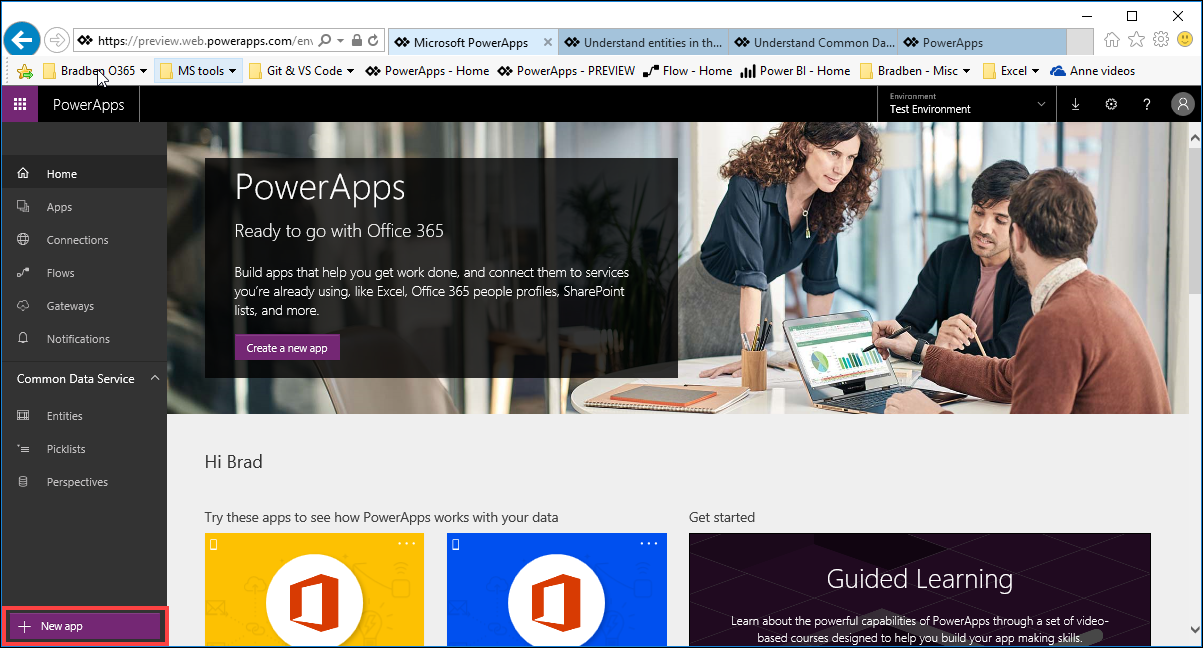
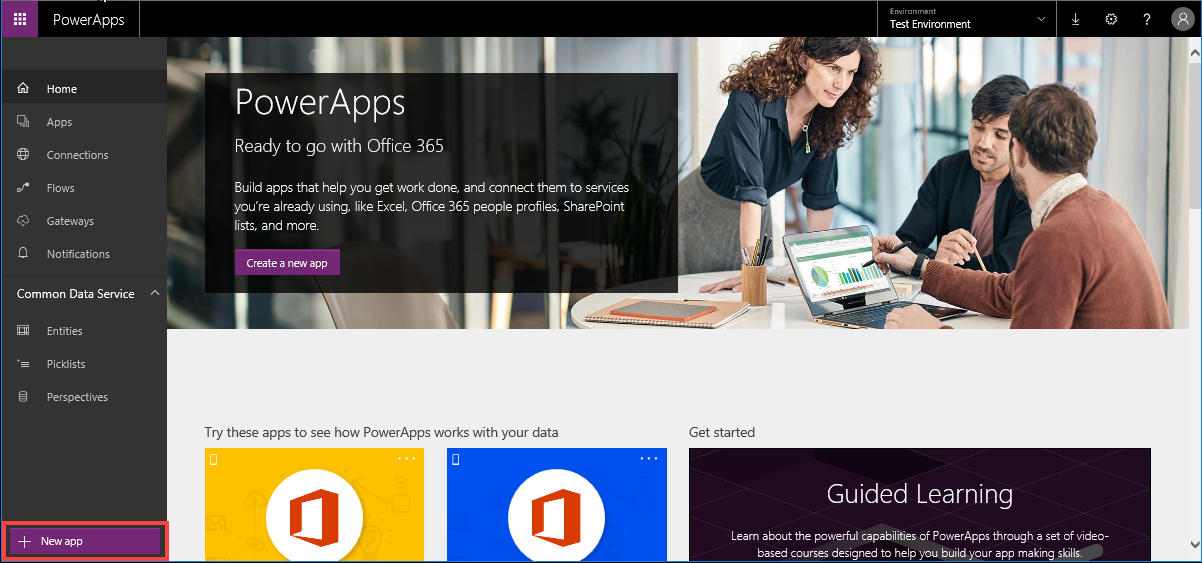
new file and graphics for CDS advanced apps topic, plus a cleanup fix for create-app graphic

diff --git a/articles/guided-learning/learning-common-data-service-advanced-apps.md b/articles/guided-learning/learning-common-data-service-advanced-apps.md
@@ -1,0 +1,102 @@
+<properties
+   pageTitle="The Common Data Service: Advance Apps | Microsoft PowerApps"
+   description="Building Advanced Applications with the Common Data Service"
+   services=""
+   suite="powerapps"
+   documentationCenter="na"
+   authors="v-brbene"
+   manager="anneta"
+   editor=""
+   tags=""
+   featuredVideoId="os33pHQ9jSU"
+   courseDuration="7m"/>
+
+<tags
+   ms.service="powerapps"
+   ms.devlang="na"
+   ms.topic="get-started-article"
+   ms.tgt_pltfrm="na"
+   ms.workload="na"
+   ms.date="6/20/2017"
+   ms.author="v-brbene"/>
+
+# Building advanced applications with the Common Data Service
+
+In this video, we’re going to talk about the different ways that you can build your apps with the Common Data Service. One of the great things about the Common Data Service is that we have application creation experiences for different skill levels. We’ll look at some of these experiences in this session. 
+
+Let’s take a quick tour of some of these options.
+
+- First, you can build your apps with PowerApps. Most of the steps in this process are automated. To create your application, you select the desired layout, choose the Common Data Service data source, find the entity you want to use, and then let PowerApps automatically build your app.
+- Next, you can build what we call a **powered-up** PowerApp. In this case, you can hook an Azure function into your app via custom APIs. The Azure function can have custom logic and complex queries that use the Common Data Service C# SDK.  To use this method, first register the app with Azure AD, and then build your Azure function. 
+- A third way is to use the Common Data Service C# SDK in a middle tier, deploy that middle-tier, and then build a Rich Client Application on top of that. 
+- And finally, you can use the Common Data Service C# SDK directly in your web apps or SaaS applications. 
+
+Let’s look at two of these options, starting with the PowerApps experience. 
+
+## Create an app with PowerApps
+
+On the **PowerApps page**, click **New app**.
+
+![Create a new app](./media/learning-common-data-service-advanced-apps/powerapps-new-app.png)
+
+In the **Blank app** template, click **Tablet layout**. 
+
+![Tablet layout](./media/learning-common-data-service-advanced-apps/tablet-layout.png)
+
+In the left navigation bar, click or tap an icon in the upper-right corner to switch to the thumbnail view. 
+
+![Toggle the views](./media/learning-common-data-service-advanced-apps/toggle-view.png)
+
+
+Click **Add Data Source**, click **Common Data Services**, select **Flooring Estimates**, and click **Connect**.
+
+![Connect to CDS](./media/learning-common-data-service-advanced-apps/add-data-source.png)
+
+Click **Insert**, click **Forms**, and then select **Entity form**.
+
+![Add entity form](./media/learning-common-data-service-advanced-apps/insert-entity-form.png)
+
+Expand the data source list and select the Common Data Service that you connected to above. 
+
+![Select data source](./media/learning-common-data-service-advanced-apps/select-data-source.png)
+
+Next, we’ll create a second screen to view the details of each item. 
+
+Click **New screen**, and click **Blank**. Add an entity form to this new screen and bind it to the Common Data Service using the same steps as above. 
+
+![Add new screen](./media/learning-common-data-service-advanced-apps/new-blank-screen.png)
+
+Click **Advanced**, and search for **pattern**. In the **Pattern** field, enter **FormPattern.Details** as the value. 
+
+![Configure pattern value](./media/learning-common-data-service-advanced-apps/pattern-value.png)
+
+Click on the first screen, click on the entity form, and then click **Options**. Under **PrimaryID**, select **Screen2** as the value for **Navigate**. This will set the **PrimaryID** column as a clickable link that will take you to the second screen. 
+
+![Configure navigation](./media/learning-common-data-service-advanced-apps/options-screen.png)
+
+
+Click on the second screen, click the entity form, and select **Advanced**. Search for **item**, and in the **Item** field, add **NavigationContext** as the value.  This tells the form to load the data from the item that was previously clicked on the first screen. 
+
+![Load form](./media/learning-common-data-service-advanced-apps/navigation-setting.png)
+
+Remaining on the second screen, click **Insert**, and then click **Button**. Drag the button to an empty space on the screen, and in the button's **OnSelect** field, enter **Navigate(Screen1, ScreenTransition.Fade)**. 
+
+![Navigation button](./media/learning-common-data-service-advanced-apps/navigation-button.png)
+
+Click the play button and test the app. Although this is a simple app, it shows how quickly you can create a tablet view that shows all the information inside of the Flooring Estimates entity, provide a deeper look into the details, and navigate back and forth. 
+
+## Create an app with the Common Data Service C# SDK
+
+Pro developers can use the Common Data Service C# SDK to either increase the complexity of logic that is used in a PowerApp, or for building Rich Clients or SaaS and web applications. 
+
+Apps that are using the SDK need to be registered with Azure AD, so they can make requests and use the Common Data Service. We won’t build an entire SDK-based app in this session, but we will look at a few of the patterns you can support with the SDK, including rich queries. The SDK is built on a link-based syntax, and supports actions such as create, delete, insert, and update.  
+
+![Visual Studio example](./media/learning-common-data-service-advanced-apps/vs-sdk-example.png)
+ 
+1. This is an example of how you can query the Common Data Service. In this case, the query looks for two product categories – **Surfaces** or **Phones**. In general, you’ll create a query builder, provide the **where** clauses, (in this case where the name of the product category is either **Surface** or **Phone**), and get back the category ID and name for the product category.
+
+2. This is a Delete action to clean up any existing cateogories.
+
+3. In this procedure, you have an insert operation to insert new entries into the **Product Category** entity. Two categories are created and inserted - one for the **Surface**, and one for the **Phone**.  
+
+The SDK works on batches - this is how PowerApps can optimize moving large amounts of data back and forth. Simply create the insert request for Surface, and the insert request for Phone, and then execute those requests. This is just the beginning of what you can do with the Common Data Service C# SDK, and in the coming months you’ll continue to see more and more features using the SDK from the PowerApps team.
